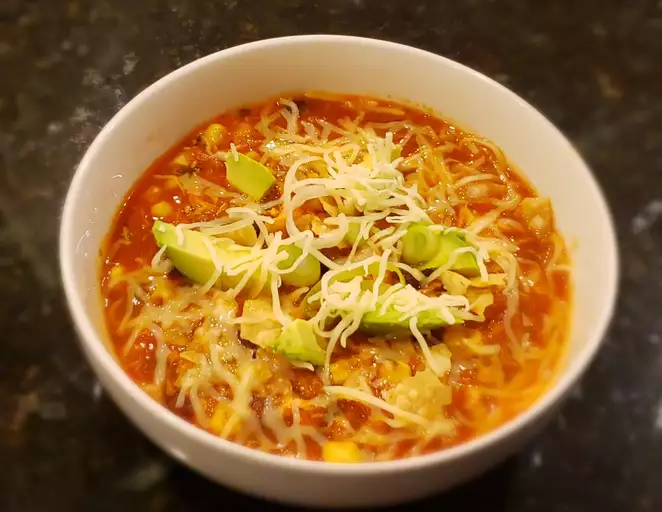
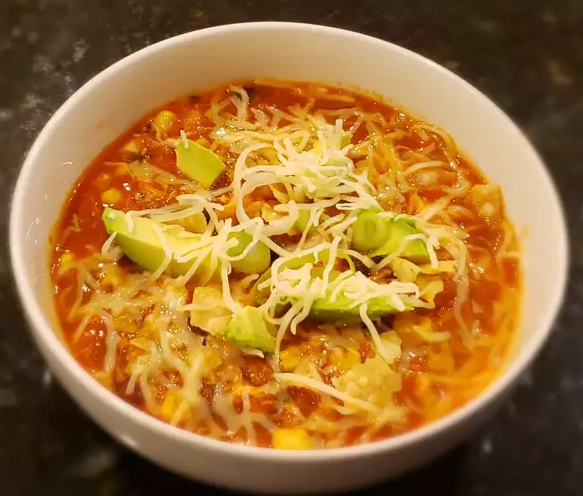
Add style

diff --git a/index.html b/index.html
@@ -4,11 +4,15 @@
     <meta charset="UTF-8">
     <meta http-equiv="X-UA-Compatible" content="IE=edge">
     <meta name="viewport" content="width=device-width, initial-scale=1.0">
+    <link rel="stylesheet" href="style.css">
     <title>My Odin Recipes Page</title>
 </head>
 <body>
     <h1>Odin Recipes</h1>
-
+    <br>
+    <img src="./images/logo.png" alt="">
+    <br>
+    <h3>Recipes:</h3>
     <ul>
         <li><a href="recipes/homemade-pizza.html">Homemade Pizza</a></li>
         <li><a href="recipes/chicken-tortilla-soup.html">Chicken Tortilla Soup</a></li>

diff --git a/recipes/chicken-tortilla-soup.html b/recipes/chicken-tortilla-soup.html
@@ -4,10 +4,13 @@
     <meta charset="UTF-8">
     <meta http-equiv="X-UA-Compatible" content="IE=edge">
     <meta name="viewport" content="width=device-width, initial-scale=1.0">
+    <link rel="stylesheet" href="../style.css">
     <title>Chicken-Tortilla-Soup</title>
 </head>
 <body>
     <h1>Chicken Chicken-Tortilla Soup</h1>
+    <a href="../index.html">Home</a>
+    <br>
     <br>
     <img src="../images/chicken-tortilla-soup.png" alt="Wonderful Chicken Chicken Tortilla Soup">
     <br>

diff --git a/style.css b/style.css
@@ -1,0 +1,34 @@
+body {
+    text-align: center;
+    font-family:'Lucida Sans Unicode';
+    background-color:aliceblue;
+}
+
+img {
+    width: 20%;
+    height: 400px;
+    border-radius: 50%;
+}
+
+ul, ol {
+    display: inline-block;
+    list-style-position: inside;
+}
+
+h1{
+    font-size: 50px;
+    text-decoration: underline;
+}
+
+h3 {
+    font-size: 30px;
+}
+
+p, li {
+    font-size: 20px;
+}
+
+a {
+    font-size: 20px;
+    color: black;
+}

diff --git a/recipes/homemade-pizza.html b/recipes/homemade-pizza.html
@@ -4,10 +4,13 @@
     <meta charset="UTF-8">
     <meta http-equiv="X-UA-Compatible" content="IE=edge">
     <meta name="viewport" content="width=device-width, initial-scale=1.0">
+    <link rel="stylesheet" href="../style.css">
     <title>Homemade Pizza</title>
 </head>
 <body>
     <h1>Homemade Pizza</h1>
+    <a href="../index.html">Home</a>
+    <br>
     <br>
     <img src="../images/homemade-pizza.png" alt="Delicious Homemade Pizza">
     <br>

diff --git a/recipes/brownie-pie.html b/recipes/brownie-pie.html
@@ -4,10 +4,13 @@
     <meta charset="UTF-8">
     <meta http-equiv="X-UA-Compatible" content="IE=edge">
     <meta name="viewport" content="width=device-width, initial-scale=1.0">
+    <link rel="stylesheet" href="../style.css">
     <title>Brownie Pie</title>
 </head>
 <body>
     <h1>Brownie Pie</h1>
+    <a href="../index.html">Home</a>
+    <br>
     <br>
     <img src="../images/brownie-pie.png" alt="Delicious Brownie Pie">
     <br>
